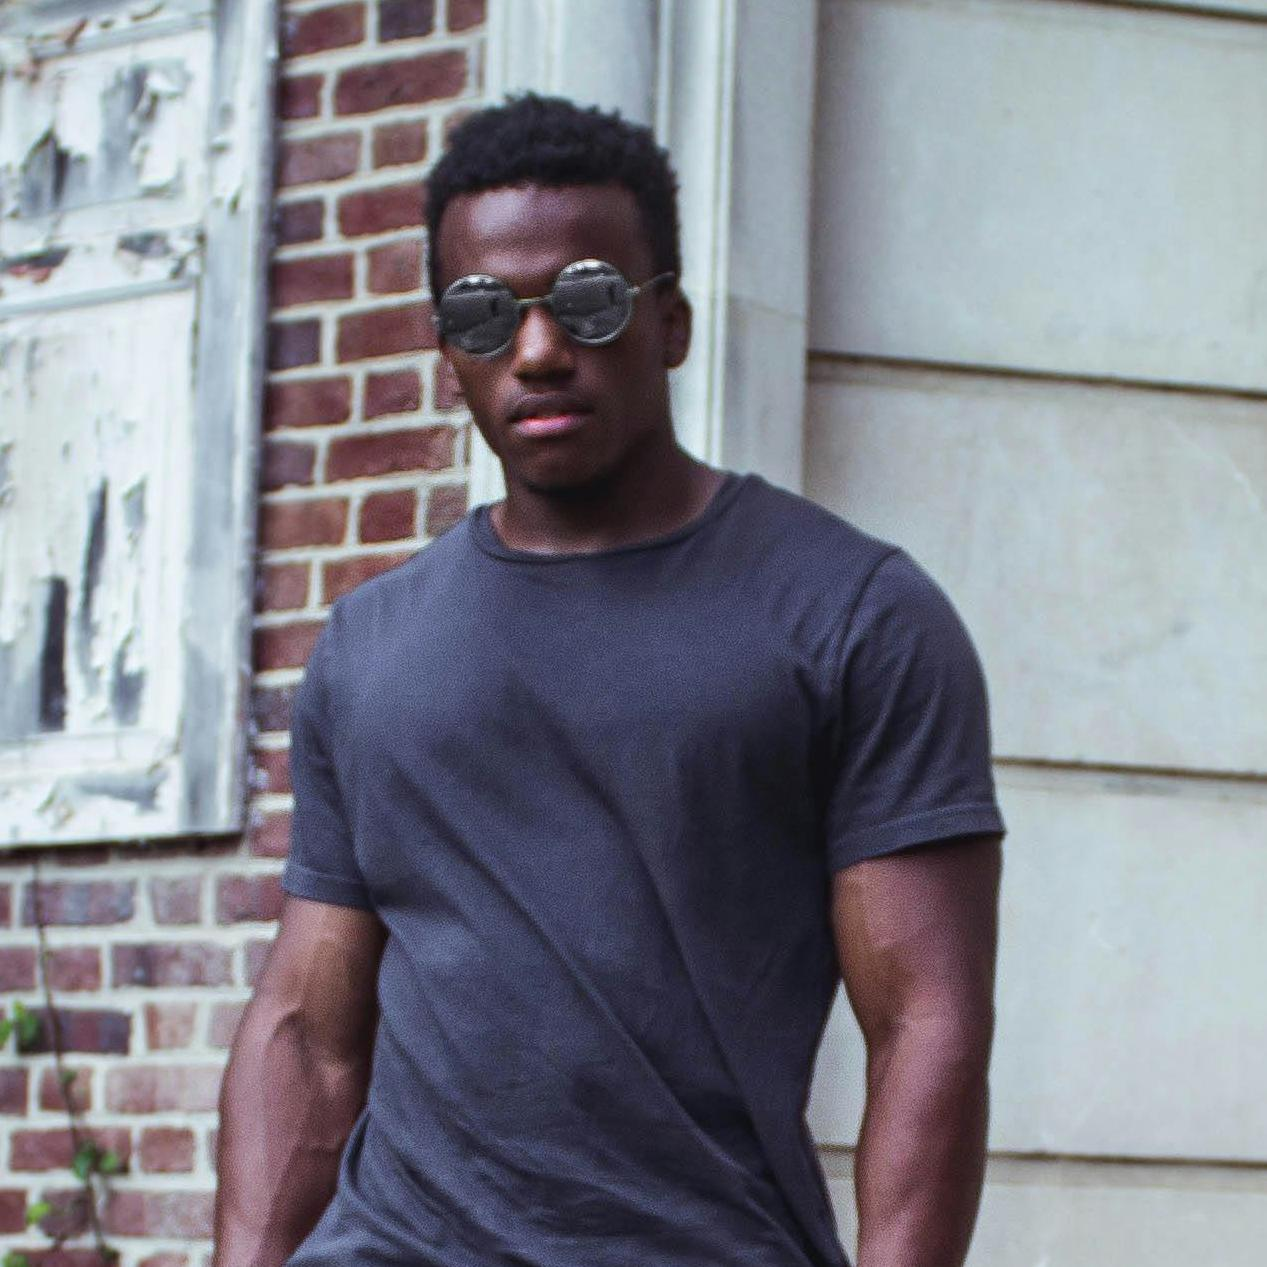
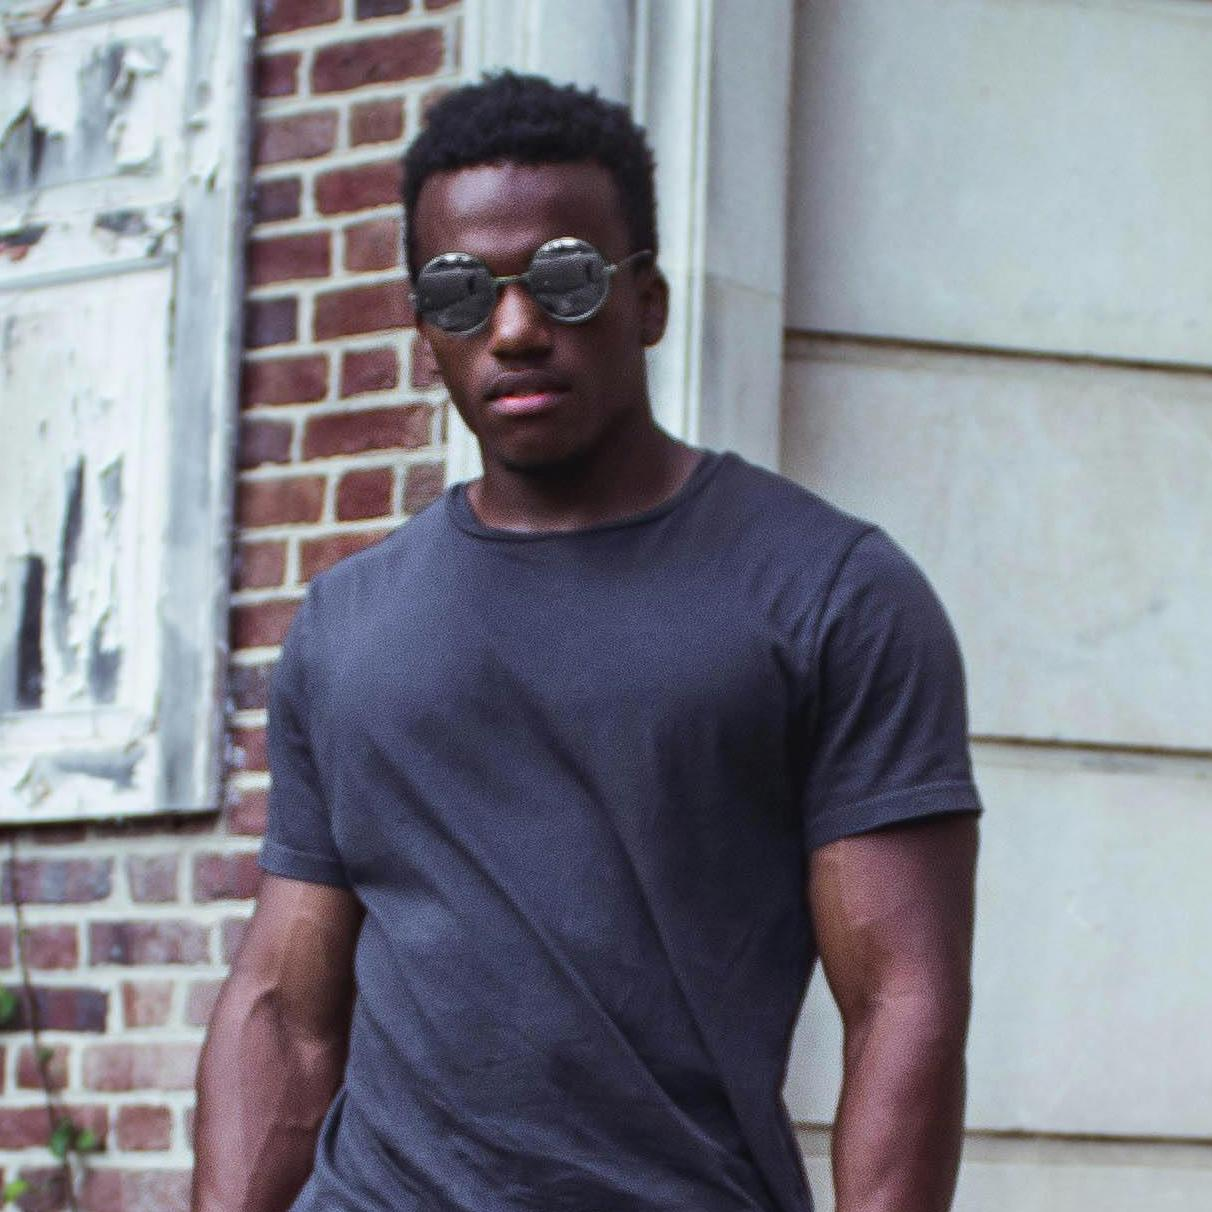
perf: fast BlazePose crop path, crop_image utility, opt-out pose (#6)
* perf(image_to_avatar): use BlazePose body-only for pose extraction

Holistic (complexity 2, refined face) ran face mesh, both hand models,
and the heavy body model, but the pipeline only needs shoulders for
cropping. Switch to mediapipe BlazePose at complexity 0 and drop the
duplicate extract_pose call, cutting per-request pose time ~4x
(~260-300ms to ~68ms on M-series; more on CPU-only Cloud Run).

The returned pose.pose is now body-only (33 points, no face/hands).

* feat(image_to_avatar): make pose.pose opt-in, crop via shoulder coordinates

The crop only needs two shoulder points, so extract_shoulders returns
them directly from BlazePose instead of hand-building a pose_format
Pose just for pose_normalization_info to read back. The full holistic
pose (body, face, hands) returns as extract_full_pose, produced only
when requested: image_to_avatar(image, include_pose=True), or the
'pose' form field on the server. Default requests skip holistic
entirely; the regenerated pose.pose assets are byte-identical to main.

* perf(image_to_avatar): run detection models on a shared low-res copy

BlazePose and the NSFW classifier both downscale internally (~256px),
so feeding them the full-resolution image only pays decode/resize
overhead. One box-reduced RGB copy now feeds both; extract_shoulders
returns normalized coordinates so crop_person can scale them onto the
untouched original. Detection+SFW on an 18MP image: 135ms -> 90ms,
with crop boxes within 0.2% of full-res detection.
[…]

diff --git a/human_avatar/image_to_avatar.py b/human_avatar/image_to_avatar.py
@@ -1,21 +1,53 @@
 from functools import cache
 from pathlib import Path
 
+import mediapipe as mp
 import numpy as np
 import torch
 from PIL import Image
-from pose_format import Pose
-from pose_format.utils.generic import pose_normalization_info
 from pose_format.utils.holistic import load_holistic
 from torchvision import transforms
 from transformers import AutoModelForImageSegmentation, pipeline
 
 CROP_RESOLUTION = 512
 RMBG_INPUT_SIZE = (1024, 1024)
+DETECTION_RESOLUTION = 512
+
+SHOULDER_LANDMARKS = (mp.solutions.pose.PoseLandmark.LEFT_SHOULDER, mp.solutions.pose.PoseLandmark.RIGHT_SHOULDER)
 
 
-def extract_pose(image: Image):
-    frames = [np.array(image)]
+def extract_shoulders(image: Image):
+    """Returns the (left, right) shoulder positions, normalized to [0, 1]."""
+    # BlazePose (body only, lowest complexity) since we only need shoulders for cropping
+    with mp.solutions.pose.Pose(static_image_mode=True, model_complexity=0) as pose_model:
+        results = pose_model.process(np.array(image))
+
+    if results.pose_landmarks is None:
+        raise ValueError("No pose detected")
+
+    landmarks = results.pose_landmarks.landmark
+    return [(landmarks[point].x, landmarks[point].y) for point in SHOULDER_LANDMARKS]
+
+
+def reduce_for_detection(image: Image):
+    # BlazePose and the NSFW classifier infer at low resolution internally, so a box-reduced
+    # copy is enough; box averaging keeps landmarks within ~0.2% of full-res detection
+    factor = max(1, max(image.size) // DETECTION_RESOLUTION)
+    return image.convert("RGB").reduce(factor)
+
+
+def crop_image(image: Image, resolution: int = None):
+    """Crops the person from an image of any size, optionally resizing the crop to resolution."""
+    l_shoulder, r_shoulder = extract_shoulders(reduce_for_detection(image))
+    cropped = crop_person(image, l_shoulder, r_shoulder)
+    if resolution is not None:
+        cropped = cropped.resize((resolution, resolution))
+    return cropped
+
+
+def extract_full_pose(image: Image):
+    # Full holistic pose (body, face, hands) for avatar animation
+    frames = [np.array(image.convert("RGB"))]
     pose = load_holistic(frames,
                          fps=1,
                          width=image.width,
@@ -41,15 +73,10 @@ def is_safe_for_work(image: Image):
     return model(image)[0]["label"] == "normal"
 
 
-def crop_person(image: Image, pose: Pose):
-    normalization_info = pose_normalization_info(pose.header)
-
-    l_shoulder = pose.body.data[0, 0, normalization_info.p1]
-    r_shoulder = pose.body.data[0, 0, normalization_info.p2]
-
-    center_x = abs((l_shoulder[0] + r_shoulder[0]) / 2)
-    center_y = abs((l_shoulder[1] + r_shoulder[1]) / 2)
-    crop_size = 1.25 * abs(l_shoulder[0] - r_shoulder[0])
+def crop_person(image: Image, l_shoulder, r_shoulder):
+    center_x = (l_shoulder[0] + r_shoulder[0]) / 2 * image.width
+    center_y = (l_shoulder[1] + r_shoulder[1]) / 2 * image.height
+    crop_size = 1.25 * abs(l_shoulder[0] - r_shoulder[0]) * image.width
 
     image = image.crop((int(center_x - crop_size),
                         int(center_y - crop_size),
@@ -90,16 +117,17 @@ def remove_image_background(image: Image):
     return result
 
 
-def image_to_avatar(image: Image):
+def image_to_avatar(image: Image, include_pose=True):
     print(f"Processing image of size {image.size}")
-    pose = extract_pose(image)
+    detection_image = reduce_for_detection(image)
+    l_shoulder, r_shoulder = extract_shoulders(detection_image)
 
-    cropped_image = crop_person(image, pose)
+    cropped_image = crop_person(image, l_shoulder, r_shoulder)
     print(f"Cropped image of size {cropped_image.size}")
     if cropped_image.size[0] < CROP_RESOLUTION or cropped_image.size[1] < CROP_RESOLUTION:
         raise ValueError(f"Image is too small. Cropped region should be at least {CROP_RESOLUTION}x{CROP_RESOLUTION}")
 
-    sfw = is_safe_for_work(image)
+    sfw = is_safe_for_work(detection_image)
     print("Is safe for work", sfw)
     if not sfw:
         raise ValueError("Image is not safe for work")
@@ -109,7 +137,8 @@ def image_to_avatar(image: Image):
     green_screen = Image.new("RGB", masked_image.size, "green")
     masked_image = Image.composite(masked_image, green_screen, masked_image)
 
-    return cropped_image, masked_image, extract_pose(image)
+    full_pose = extract_full_pose(image) if include_pose else None
+    return cropped_image, masked_image, full_pose
 
 
 if __name__ == "__main__":

diff --git a/human_avatar/server.py b/human_avatar/server.py
@@ -43,15 +43,21 @@ def image_to_avatar():
     image = Image.open(file)
     print("Image size", image.size)
 
-    cropped, masked, pose = image_to_human_avatar(image)
+    include_pose = request.form.get("pose", "true").lower() in ("true", "1", "yes")
+    cropped, masked, pose = image_to_human_avatar(image, include_pose=include_pose)
 
     output_directory.mkdir(parents=True, exist_ok=True)
     image.save(output_directory / "original.png")
     cropped.save(output_directory / "cropped.png")
     masked.save(output_directory / "masked.png")
 
-    with (output_directory / "pose.pose").open("wb") as pose_file:
-        pose.write(pose_file)
+    pose_path = output_directory / "pose.pose"
+    if pose is not None:
+        with pose_path.open("wb") as pose_file:
+            pose.write(pose_file)
+    else:
+        # a stale pose.pose from a previous run would not match the new crops
+        pose_path.unlink(missing_ok=True)
 
     return Response(status=201)
 

diff --git a/README.md b/README.md
@@ -42,6 +42,17 @@ cropped, masked, pose = image_to_avatar(image)
 masked.save("masked.png")
 ```
 
+Pass `include_pose=False` to skip the full-body pose extraction (much faster).
+
+To only crop a person out of an image of any size, without the avatar quality conditions:
+```python
+from human_avatar.image_to_avatar import crop_image
+from PIL import Image
+
+image = Image.open("example.jpg")
+crop = crop_image(image, resolution=256)  # 256x256 shoulder-centered crop
+```
+
 ### Web Server on Docker
 
 ```bash
@@ -55,3 +66,5 @@ curl -X POST http://localhost:9874/ \
   -F "output=gs://output/flux" \
   -F "file=@assets/examples/flux/source.jpg"
 ```
+
+Pass `-F "pose=false"` to skip writing the full-body `pose.pose` file (much faster).
